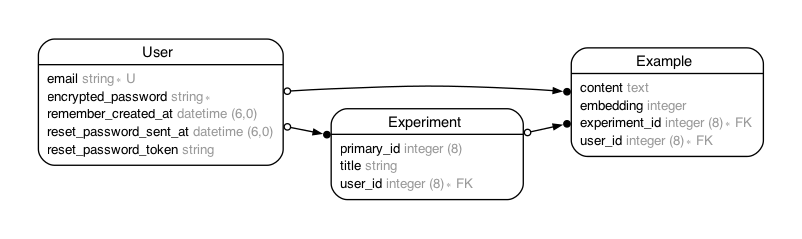
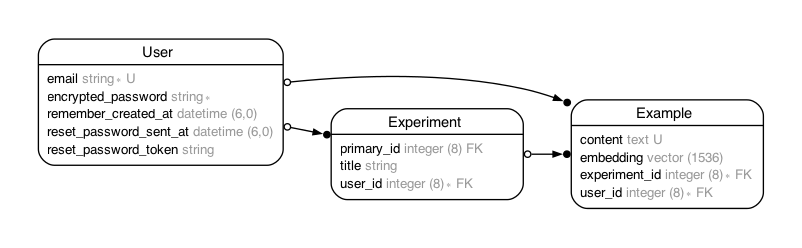
Add vector column

diff --git a/db/schema.rb b/db/schema.rb
@@ -10,7 +10,7 @@
 #
 # It's strongly recommended that you check this file into your version control system.
 
-ActiveRecord::Schema[7.1].define(version: 2024_04_06_002233) do
+ActiveRecord::Schema[7.1].define(version: 2024_04_06_010355) do
   # These are extensions that must be enabled in order to support this database
   enable_extension "plpgsql"
   enable_extension "vector"
@@ -18,10 +18,10 @@ ActiveRecord::Schema[7.1].define(version: 2024_04_06_002233) do
   create_table "examples", force: :cascade do |t|
     t.bigint "experiment_id", null: false
     t.text "content"
-    t.integer "embedding"
     t.bigint "user_id", null: false
     t.datetime "created_at", null: false
     t.datetime "updated_at", null: false
+    t.vector "embedding", limit: 1536
     t.index ["experiment_id"], name: "index_examples_on_experiment_id"
     t.index ["user_id"], name: "index_examples_on_user_id"
   end

diff --git a/db/migrate/20240406001901_create_examples.rb b/db/migrate/20240406001901_create_examples.rb
@@ -3,7 +3,6 @@ class CreateExamples < ActiveRecord::Migration[7.1]
     create_table :examples do |t|
       t.references :experiment, null: false, foreign_key: true
       t.text :content
-      t.integer :embedding
       t.references :user, null: false, foreign_key: true
 
       t.timestamps

diff --git a/app/models/example.rb b/app/models/example.rb
@@ -4,7 +4,7 @@
 #
 #  id            :bigint           not null, primary key
 #  content       :text
-#  embedding     :integer
+#  embedding     :vector(1536)
 #  created_at    :datetime         not null
 #  updated_at    :datetime         not null
 #  experiment_id :bigint           not null

diff --git a/spec/models/example_spec.rb b/spec/models/example_spec.rb
@@ -4,7 +4,7 @@
 #
 #  id            :bigint           not null, primary key
 #  content       :text
-#  embedding     :integer
+#  embedding     :vector(1536)
 #  created_at    :datetime         not null
 #  updated_at    :datetime         not null
 #  experiment_id :bigint           not null

diff --git a/db/migrate/20240406010355_add_embedding_to_examples.rb b/db/migrate/20240406010355_add_embedding_to_examples.rb
@@ -1,0 +1,5 @@
+class AddEmbeddingToExamples < ActiveRecord::Migration[7.1]
+  def change
+    add_column :examples, :embedding, :vector, limit: 1536
+  end
+end
